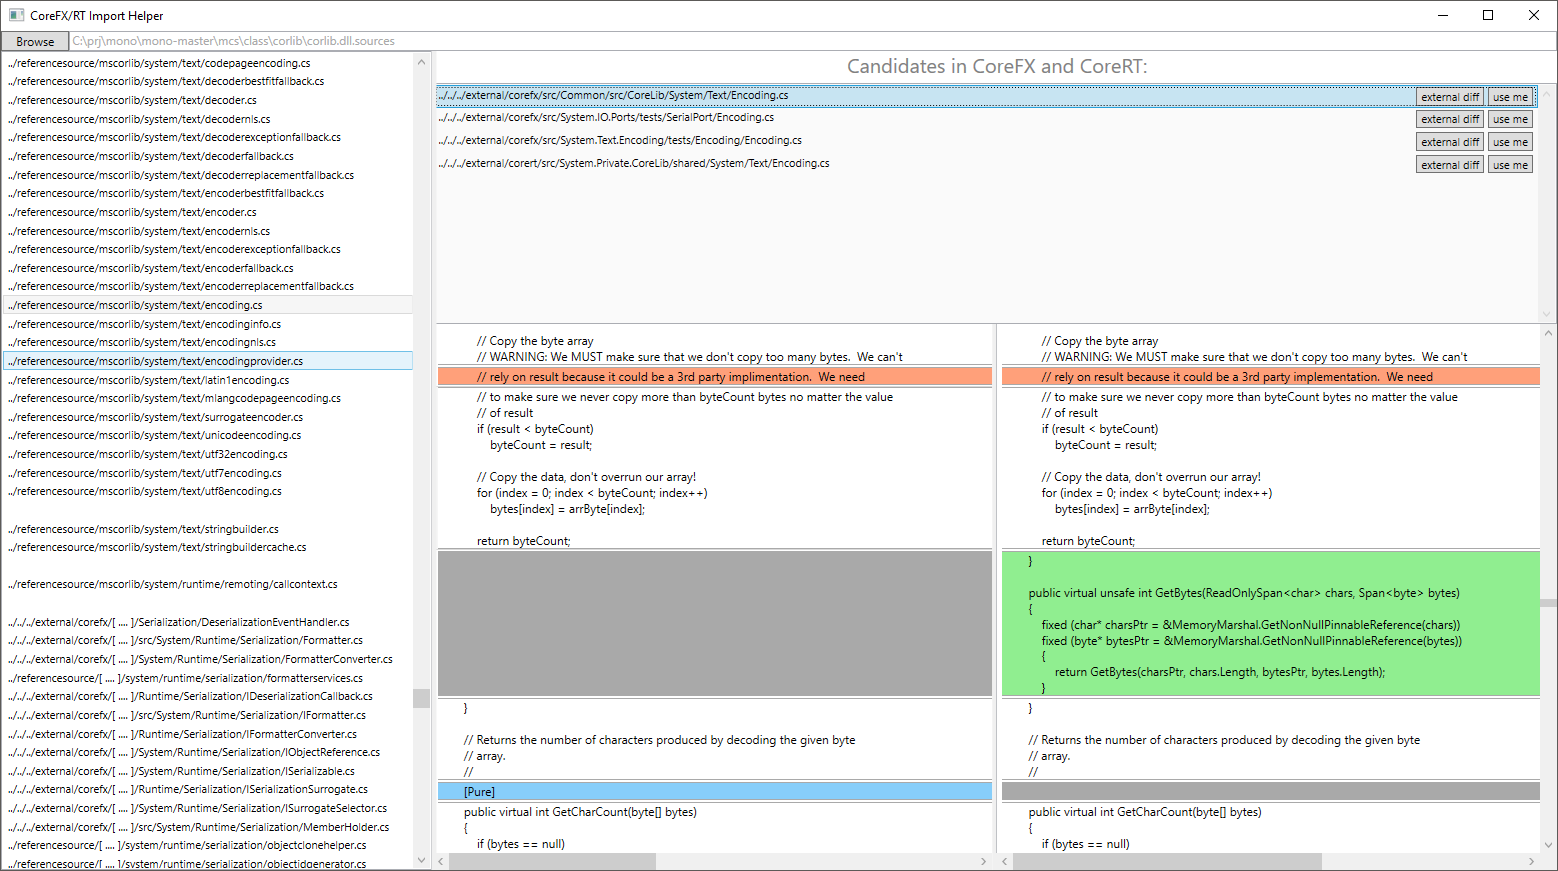
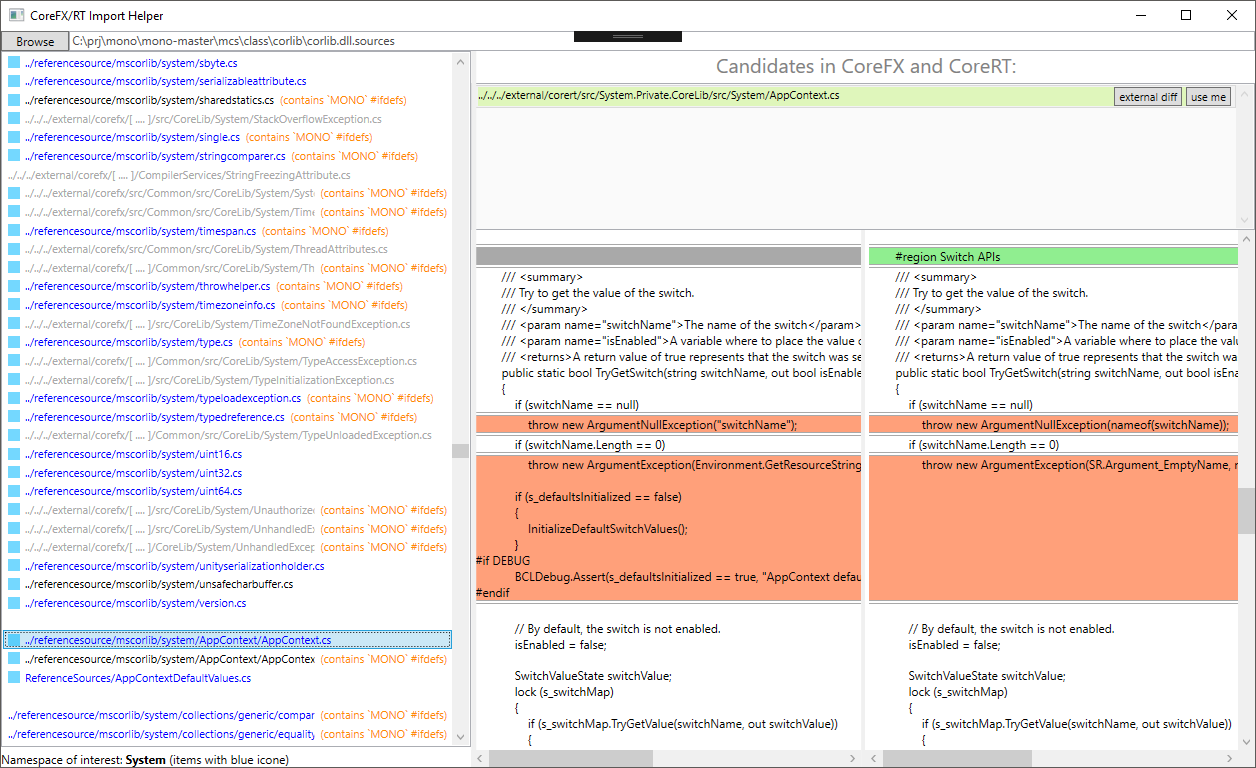
update

diff --git a/CorefxImportHelper/MainWindow.xaml b/CorefxImportHelper/MainWindow.xaml
@@ -30,7 +30,15 @@
             </Grid.RowDefinitions>
 
 
-            <ListBox x:Name="SourceItems" FontSize="11" Grid.RowSpan="2"
+            <TextBlock Grid.Row="1" VerticalAlignment="Bottom" >
+                <Run Text="Namespace of interest:"/>
+                <Bold>
+                    <Run Text="{Binding NamespaceOfInterest, Mode=OneWay}" />
+                </Bold>
+                <Run Text="(items with blue icone)"/>
+            </TextBlock>
+
+            <ListBox x:Name="SourceItems" FontSize="11" Grid.RowSpan="2" Margin="0,0,0,20"
                      ScrollViewer.HorizontalScrollBarVisibility="Disabled" 
                      SelectedItem="{Binding SelectedSourceItem}"
                      ItemsSource="{Binding SourceItems}">
@@ -42,7 +50,7 @@
                                 <ColumnDefinition Width="*"/>
                                 <ColumnDefinition Width="Auto"/>
                             </Grid.ColumnDefinitions>
-                            <Border Visibility="Collapsed" x:Name="siLabel" Width="12" Height="12" Margin="0,0,5,0" HorizontalAlignment="Center" VerticalAlignment="Center" Background="#8BFF0000"/>
+                            <Border Visibility="Collapsed" x:Name="siLabel" Width="12" Height="12" Margin="0,0,5,0" HorizontalAlignment="Center" VerticalAlignment="Center" Background="#8B00B8FF"/>
                             <TextBlock x:Name="SourceItemTb" Grid.Column="1" Text="{Binding .}"/>
                             <TextBlock x:Name="siComment" Grid.Column="2" Foreground="DarkOrange" Margin="6,0,0,0" VerticalAlignment="Center" HorizontalAlignment="Center" Text="{Binding Comments}"/>
                         </Grid>
@@ -56,7 +64,7 @@
                             <DataTrigger Binding="{Binding IsNetCore}" Value="True">
                                 <Setter TargetName="SourceItemTb" Property="Foreground" Value="DarkGray"/>
                             </DataTrigger>
-                            <DataTrigger Binding="{Binding IsSystemNamespace}" Value="True">
+                            <DataTrigger Binding="{Binding IsNamespaceOfInterest}" Value="True">
                                 <Setter TargetName="siLabel" Property="Visibility" Value="Visible"/>
                             </DataTrigger>
                             <DataTrigger Binding="{Binding IsNotValidFile}" Value="True">

diff --git a/ConsoleHelper/Program.cs b/ConsoleHelper/Program.cs
@@ -1,0 +1,165 @@
+using System;
+using System.Collections.Generic;
+using System.IO;
+using System.Linq;
+using System.Xml.Linq;
+
+namespace BclMetrics
+{
+    static class Program
+    {
+        static void Main(string[] args)
+        {
+            string slnPath = @"C:\prj\mono\mono-master\bcl.sln";
+
+            var metrics = new List<ProjectMetrics>();
+            foreach (var csproj in GetProjectsFromSolution(slnPath))
+            {
+                Out($"Parsing {csproj}...");
+                var stat = CalculateMetricsForProject(csproj);
+
+                string[] bclPrefixes = { "System", "Windows", "corlib", "Microsoft" };
+                // ignore tools, facades, etc. BCL-assemblies' names start with System%, Microsoft% or corlib
+                if (bclPrefixes.Any(i => stat.ProjectName.StartsWith(i, StringComparison.InvariantCultureIgnoreCase)))
+                    metrics.Add(stat);
+            }
+
+            // Top largest assemblies by lines of code:
+            int top = 20;
+            var topLargestProjs = metrics
+                .OrderByDescending(i => i.Total)
+                .Take(top)
+                .Select((proj, index) => $"{index + 1}. {proj.ProjectName}  ({proj.Total} LOC)");
+
+            Out($"\n\nTop {top} Largest assemblies:\n   " + string.Join("\n   ", topLargestProjs));
+
+            int totalCore = metrics.Sum(i => i.Core);
+            int totalRefSource = metrics.Sum(i => i.ReferenceSourcesLines);
+            int totalMono = metrics.Sum(i => i.MonoLines);
+            int total = metrics.Sum(i => i.Total);
+
+            string Percentages(int value, int sum)
+                => $"{value:N0} (" + Math.Round(value * 100f / sum, 1) + "%)";
+
+            Out($"\nTotal Lines Of Code (LOC): {total:N0}\n" +
+                              $"   Mono:  {Percentages(totalMono, total)}\n" +
+                              $"  .NET ReferenceSources:  {Percentages(totalRefSource, total)}\n" +
+                              $"  .NET Core:  {Percentages(totalCore, total)}\n");
+
+            Out(".NET Core Adoption by assemblies:");
+            foreach (var item in metrics
+                .OrderByDescending(i => i.Core / (float)i.Total)
+                .Where(i => i.Core > 0))
+            {
+                Out($"   {item.ProjectName}   ({Math.Round(item.Core * 100f / item.Total, 1)}%)");
+            }
+            Console.ReadKey();
+        }
+
+        static void Out(string str)
+        {
+            Console.WriteLine(str);
+            File.AppendAllText("log.txt", str + "\n");
+        }
+
+        static ProjectMetrics CalculateMetricsForProject(string csproj)
+        {
+            var result = new ProjectMetrics { ProjectPath = csproj };
+            foreach (var fullPath in GetCsFilesFromProject(csproj))
+            {
+                var linesOfCode = CalculateLinesOfCode(fullPath);
+                /*
+				 example: corlib.csproj (or corlib.dll.sources)
+				   System/EmptyArray.cs  -->  Mono
+				   ../referencesource/mscorlib/system/threading/Tasks/TaskToApm.cs  -->  .NET ReferenceSources
+				   ../../../external/corert/src/Common/src/Interop/Unix/Interop.Libraries.cs  -->  CoreRT
+				   ../../../external/corefx/src/Common/src/CoreLib/System/Memory.cs  -->  CoreFX
+				   corefx/SR.cs  --> CoreFX: in local "corefx/" folders we usually store mono-specific glue for corefx, but lets treat SR.cs as .NET Core sources
+				   corefx/GlobalizationMode.cs  -->  Mono (glue)
+				 */
+                if (fullPath.Contains("/external/corefx/".ToOsPath()) ||
+                    fullPath.EndsWith("/corefx/SR.cs".ToOsPath())) //
+                    result.CoreFxLines += linesOfCode;
+                else if (fullPath.Contains("/external/corert/".ToOsPath()) ||
+                         fullPath.EndsWith("/corert/SR.cs".ToOsPath()))
+                    result.CoreRtLines += linesOfCode;
+                else if (fullPath.Contains("/mcs/class/referencesource/".ToOsPath()) ||
+                         fullPath.Contains("/external/aspnetwebstack/".ToOsPath()))
+                    result.ReferenceSourcesLines += linesOfCode;
+                else
+                    result.MonoLines += linesOfCode;
+            }
+
+            return result;
+        }
+
+        static IEnumerable<string> GetCsFilesFromProject(string csproj)
+        {
+            var csprojFolder = Path.GetDirectoryName(csproj);
+
+            var doc = XDocument.Load(csproj);
+            XNamespace msbuild = "http://schemas.microsoft.com/developer/msbuild/2003";
+            foreach (var line in doc.Descendants(msbuild + "Compile"))
+            {
+                string includePath = line.Attribute("Include")?.Value;
+                if (string.IsNullOrEmpty(includePath))
+                    continue;
+                includePath = includePath.ToOsPath();
+
+                if (!includePath.Contains("*.cs"))
+                    yield return Path.GetFullPath(Path.Combine(csprojFolder, includePath));
+                else // expand wildcards
+                {
+                    var fullPath = Path.GetFullPath(Path.Combine(csprojFolder, includePath.Substring(0, includePath.Length - "/*.cs".Length)));
+                    foreach (var expandedCsFile in Directory.GetFiles(fullPath, "*.cs"))
+                        yield return expandedCsFile;
+                }
+            }
+        }
+
+        static int CalculateLinesOfCode(string csFile)
+        {
+            var lines = File.ReadAllLines(csFile);
+            return lines.Length; // UPD: well, let's just count all lines
+
+            // ignore blank lines and comments
+            var count = lines.Select(i => i.Trim(' ', '\t', '\n', '\r')).Count(i => !string.IsNullOrEmpty(i) && !i.StartsWith("//"));
+            // it doesn't take into account #ifdefs and multiline /**/ comments :(
+            return count;
+        }
+
+        static string ToOsPath(this string path) => path
+                .Replace("/", Path.DirectorySeparatorChar.ToString())
+                .Replace("\\", Path.DirectorySeparatorChar.ToString());
+
+        static IEnumerable<string> GetProjectsFromSolution(string sln)
+        {
+            foreach (var line in File.ReadAllLines(sln))
+            {
+                //parse csprojs from .sln
+                //Project("{id1}") = "projectName", "pathTo.csproj", "{id2}"
+                //------------------------------------------^
+                var startStr = "\", \"";
+                var start = line.IndexOf(startStr);
+                if (start < 0)
+                    continue;
+                var end = line.IndexOf("\"", start + startStr.Length + 1);
+                var relativePath = line.Substring(start + startStr.Length, end - start - startStr.Length);
+                yield return Path.Combine(Path.GetDirectoryName(sln), relativePath).ToOsPath();
+            }
+        }
+    }
+
+    public class ProjectMetrics
+    {
+        public string ProjectPath { get; set; }
+        public int MonoLines { get; set; }
+        public int ReferenceSourcesLines { get; set; }
+        public int CoreFxLines { get; set; }
+        public int CoreRtLines { get; set; }
+
+        public string ProjectName => Path.GetFileNameWithoutExtension(ProjectPath);
+        public int Core => CoreFxLines + CoreRtLines;
+        public int Total => Core + MonoLines + ReferenceSourcesLines;
+    }
+}

diff --git a/ConsoleHelper/Properties/AssemblyInfo.cs b/ConsoleHelper/Properties/AssemblyInfo.cs
@@ -1,0 +1,36 @@
+using System.Reflection;
+using System.Runtime.CompilerServices;
+using System.Runtime.InteropServices;
+
+// General Information about an assembly is controlled through the following
+// set of attributes. Change these attribute values to modify the information
+// associated with an assembly.
+[assembly: AssemblyTitle("ConsoleHelper")]
+[assembly: AssemblyDescription("")]
+[assembly: AssemblyConfiguration("")]
+[assembly: AssemblyCompany("")]
+[assembly: AssemblyProduct("ConsoleHelper")]
+[assembly: AssemblyCopyright("Copyright ©  2018")]
+[assembly: AssemblyTrademark("")]
+[assembly: AssemblyCulture("")]
+
+// Setting ComVisible to false makes the types in this assembly not visible
+// to COM components.  If you need to access a type in this assembly from
+// COM, set the ComVisible attribute to true on that type.
+[assembly: ComVisible(false)]
+
+// The following GUID is for the ID of the typelib if this project is exposed to COM
+[assembly: Guid("68851ea0-d7e3-4156-b488-cdae89a7f546")]
+
+// Version information for an assembly consists of the following four values:
+//
+//      Major Version
+//      Minor Version
+//      Build Number
+//      Revision
+//
+// You can specify all the values or you can default the Build and Revision Numbers
+// by using the '*' as shown below:
+// [assembly: AssemblyVersion("1.0.*")]
+[assembly: AssemblyVersion("1.0.0.0")]
+[assembly: AssemblyFileVersion("1.0.0.0")]

diff --git a/CorefxImportHelper/SourceItemViewModel.cs b/CorefxImportHelper/SourceItemViewModel.cs
@@ -27,7 +27,7 @@ namespace CorefxImportHelper
 
         public bool IsNotValidFile => string.IsNullOrWhiteSpace(Path) || Path.StartsWith("#") || Path.Contains("/*");
 
-        public bool IsSystemNamespace
+        public bool IsNamespaceOfInterest
         {
             get
             {
@@ -35,10 +35,13 @@ namespace CorefxImportHelper
                     return false;
 
                 var c = Content;
-                if (c.Contains("namespace System\n") || c.Contains("namespace System\r") || c.Contains("namespace System ") || c.Contains("namespace System\t"))
+                string[] endings = {"\n", "\t", " ", "\r"};
+                foreach (var ending in endings)
                 {
-                    return true;
+                    if (c.Contains(MainViewModel.NamespaceOfInterest + ending))
+                        return true;
                 }
+
                 return false;
             }
         }

diff --git a/CorefxImportHelper/MainViewModel.cs b/CorefxImportHelper/MainViewModel.cs
@@ -44,6 +44,8 @@ namespace CorefxImportHelper
             }
         }
 
+        public string NamespaceOfInterest => "System"; // in my current PR I am interesting only in types under this namespace so I want the tool to hightlight files with it inside
+
         public SourceItemViewModel SelectedSourceItem
         {
             get => _selectedSourceItem;
